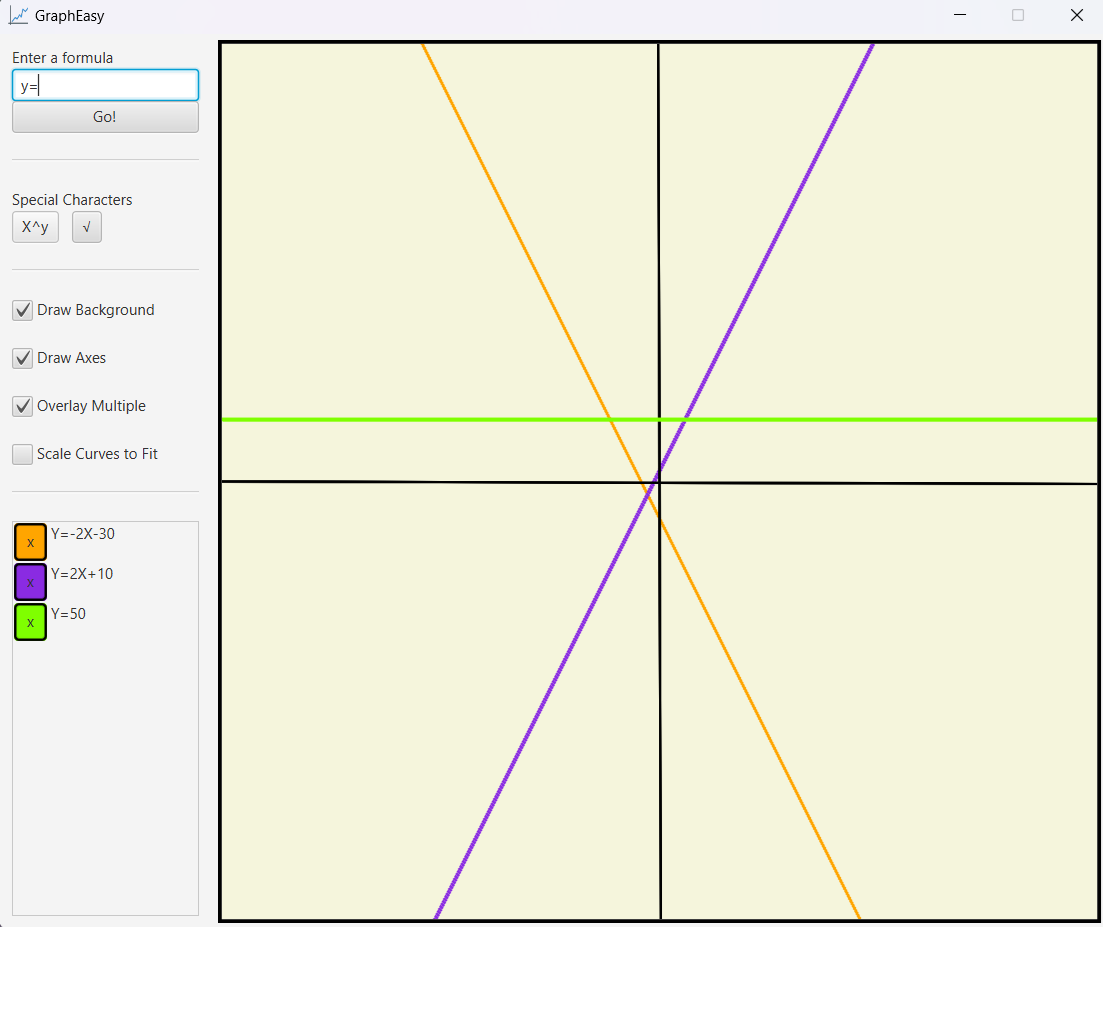
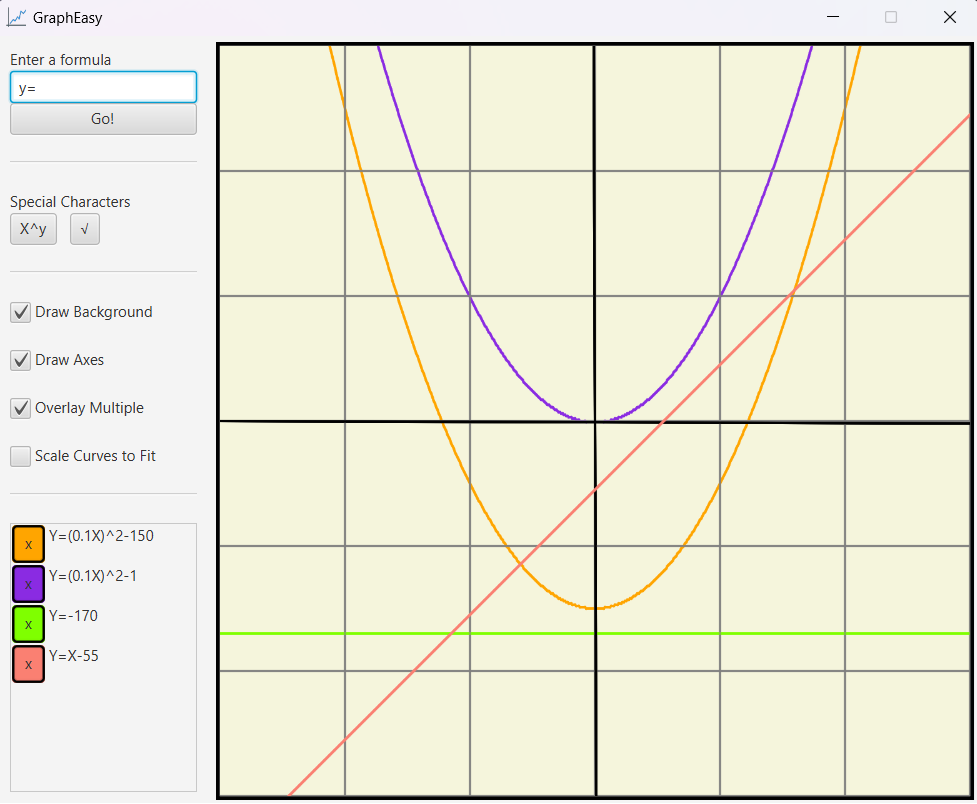
Added background grid. Fixed issue with long lines being segmented. Updated Github image

diff --git a/data-display-demo/src/main/java/mainClasses/MainController.java b/data-display-demo/src/main/java/mainClasses/MainController.java
@@ -35,14 +35,22 @@ public class MainController {
 
 	// TODO Possible next TODOs
 	// y=x^2 doesn't produce a parabola; squared negatives stay negative
-		// y=(x)^2 DOES display as expected, but not y=x^2? Why?
-			// Possible solution: When assessing formula, consider replacing "X" with "(X)"
-			// Then undoing it when the GraphData is created?
-	// drawBackground() should draw a thin grid in the background, with ticks and correct scaling
+	// y=(x)^2 DOES display as expected, but not y=x^2? Why?
+	// Possible solution: When assessing formula, consider replacing "X" with "(X)"
+	// Then undoing it when the GraphData is created?
+	// TODO I have done this ^^^ - check it works as it should
+	// drawBackground() should draw a thin grid in the background, with ticks and
+	// correct scaling
+	// Then make sure it's displaying as it should, with the right coordinates, etc
 	// Why is the line dashed when there is a big gap between points?
-	// Make the TextField a typable dropdown that lets the user select previously added formulas
+	// Make the GraphData remember its colour, so that deleting earlier lines
+	// doesn't change the colour
+	// Make the TextField a typable dropdown that lets the user select previously
+	// added formulas
 	// Give user checkbox to de/select from list. Only display selected
 	// Allow user to import/export data
+	// Update the github image with an extra line such as "y=(x/20)^2" to show that
+	// it does expos.
 	// Unit tests
 
 	ArrayList<GraphData> graphDataPoints = new ArrayList<>();
@@ -77,11 +85,14 @@ public class MainController {
 
 	Color canvasBackGroundColour = Color.BEIGE;
 	Color canvasAxisColour = Color.BLACK;
-	Color[] lineColours = { Color.LIGHTGREEN, Color.ORANGE, Color.BLUEVIOLET, Color.CHARTREUSE,//
-			Color.PINK, Color.SANDYBROWN, Color.RED, Color.AQUA };
+	Color canvasBackgroundColour = new Color(0.5, 0.5, 0.5, 0.5); // Grey
+	Color[] lineColours = { Color.LIGHTGREEN, Color.ORANGE, Color.BLUEVIOLET, Color.CHARTREUSE, //
+			Color.SALMON, Color.SANDYBROWN, Color.RED, Color.AQUA };
 
 	int canvasLineWidth = 2;
-	double topBarOpacity = 0.4;
+	double backgroundLineWidth = 0.5;
+
+	int gridInterval = 100;
 
 	final static String fxmlFileName = "/mainFXML.fxml";
 
@@ -102,9 +113,9 @@ public class MainController {
 		overlayMultipleCheckBox.setSelected(true);
 		drawAxes(1);
 		drawBackgroundGrid(1);
-		
+
 		VBox.setVgrow(listOfLineScrollPane, Priority.ALWAYS);
-		
+
 		formulaEntryTF.setText(formulaBoxStartingText);
 		Platform.runLater(() -> {
 			moveCaretToEndOfFormulaBox();
@@ -176,7 +187,7 @@ public class MainController {
 
 	private void paintBackground() {
 		gc.setFill(canvasBackGroundColour);
-		gc.fillRect(0, 0, canvas.getWidth(), canvas.getHeight()); // Covers the whole area
+		gc.fillRect(0, 0, canvas.getWidth(), canvas.getHeight());
 	}
 
 	private void createLine(String formula) throws ScriptException {
@@ -192,7 +203,8 @@ public class MainController {
 		ArrayList<Double> rawYValues = new ArrayList<Double>();
 		getRawValues(formula, rawYValues);
 
-		GraphData data = new GraphData("Y" + formula.toUpperCase().replace("*X", "X"), "Y" + formula.toUpperCase().replace("*X", "X"), rawYValues);
+		GraphData data = new GraphData("Y" + formula.toUpperCase().replace("*X", "X"),
+				"Y" + formula.toUpperCase().replace("*X", "X"), rawYValues);
 
 		// TODO This is flimsy ATM
 		// Avoiding duplicates as a temporary solution to make sure the UI list
@@ -239,8 +251,12 @@ public class MainController {
 			drawAxes(1);
 		}
 
+		if (graphDataPoints.size() == 0 && getDrawBackground()) {
+			drawBackgroundGrid(1);
+		}
+
 		moveCaretToEndOfFormulaBox();
-		
+
 	}
 
 	private void addLineToUiList(GraphData data) {
@@ -288,8 +304,8 @@ public class MainController {
 						((Pane) grandParent).getChildren().remove(parent);
 					}
 				}
-			redrawLinesOnGraphFromCache();
-			moveCaretToEndOfFormulaBox();
+				redrawLinesOnGraphFromCache();
+				moveCaretToEndOfFormulaBox();
 			}
 		});
 
@@ -306,10 +322,10 @@ public class MainController {
 		double scale = getScalingFactor(rawYValues);
 
 		// Optionally: Draw background
-		if(getDrawBackground()) {
+		if (getDrawBackground()) {
 			drawBackgroundGrid(scale);
 		}
-		
+
 		// Optionally: Draw axes
 		if (getDrawAxes()) {
 			drawAxes(scale);
@@ -321,15 +337,24 @@ public class MainController {
 	}
 
 	private void drawBackgroundGrid(double scale) {
-		// TODO Auto-generated method stub
-		// TODO vvv
-			// TODO Also: add tickmarks and numbers
-		System.out.println("TODO: Draw a thin grid in the background that scales with the scale");
+		gc.setStroke(canvasBackgroundColour);
+
+		int yValue = gridInterval;
+		while (yValue <= canvas.getHeight()) {
+			gc.strokeLine(0, yValue, canvas.getWidth(), yValue);
+			yValue += gridInterval;
+		}
+
+		int xValue = gridInterval;
+		while (xValue <= canvas.getWidth()) {
+			gc.strokeLine(xValue, 0, xValue, canvas.getHeight());
+			xValue += gridInterval;
+		}
 	}
 
 	private double getScalingFactor(ArrayList<Double> rawYValues) {
 		// TODO Consider; this squashes each line individually
-			// Would it be preferable to return a scaling factor for ALL lines/data points?
+		// Would it be preferable to return a scaling factor for ALL lines/data points?
 		if (getScaleCurves()) {
 			double largest = findLargest(rawYValues);
 			return canvas.getHeight() / largest;
@@ -371,7 +396,7 @@ public class MainController {
 	private boolean getDrawAxes() {
 		return drawAxesCheckBox.isSelected();
 	}
-	
+
 	private boolean getDrawBackground() {
 		return drawBackgroundCheckBox.isSelected();
 	}
@@ -399,13 +424,19 @@ public class MainController {
 		for (int counter = 0; counter < yValues.size(); counter++) {
 			double xValue = counter;
 
-			if(Double.isNaN(yValues.get(counter))) {
+			if (Double.isNaN(yValues.get(counter))) {
 				continue;
 			}
-			
-			double yValue = Math.round(canvas.getHeight() / 2 - (yValues.get(counter) * scale));
-			gc.strokeLine(xValue, yValue, xValue + 1, yValue + 1);
+
+			 // try-catch is here as the last point will fail
+			double yStartValue = Math.round(canvas.getHeight() / 2 - (yValues.get(counter) * scale));
+			try {
+				double yEndValue = Math.round(canvas.getHeight() / 2 - (yValues.get(counter + 1) * scale));
+				gc.strokeLine(xValue, yStartValue, xValue + 1, yEndValue);
 //			System.out.println("DRAWN: " + xValue + " " + yValue);
+			} catch (Exception e) {
+				gc.strokeLine(xValue, yStartValue, xValue + 1, yStartValue+1);
+			}
 		}
 	}
 
@@ -435,7 +466,7 @@ public class MainController {
 
 	private void getRawValues(String formula, ArrayList<Double> rawYValues) {
 		for (double xValue = (0 - (canvas.getWidth() / 2)); xValue <= canvas.getWidth() / 2; xValue += 1) {
-			String formulaImpl = formula.replace("x", "" + (int) xValue);
+			String formulaImpl = formula.replace("x", "(" + (int) xValue + ")");
 			Expression expression = new ExpressionBuilder(formulaImpl.split("=")[1]).build();
 
 //			System.out.println("FORMULA: " + formula + " || " + formulaImpl);
@@ -468,11 +499,11 @@ public class MainController {
 	private boolean checkFormulaIsCorrect(String formula) {
 
 		formula = formula.toLowerCase();
-		
-		if(formula.equals(formulaBoxStartingText)) {
+
+		if (formula.equals(formulaBoxStartingText)) {
 			return false;
 		}
-		
+
 		String[] formulaSplit = formula.split("=");
 
 //		if (!formula.contains("x") || !formula.contains("y")) {

diff --git a/data-display-demo/src/main/java/mainClasses/AppClass.java b/data-display-demo/src/main/java/mainClasses/AppClass.java
@@ -14,8 +14,8 @@ public class AppClass extends Application {
 	private final static String appIconFileName = "linechart.png";
 	
 	Logger logger;
-	public static final int minimumStageWidth = 700;
-	public static final int minimumStageHeight = 700;
+	public static final int minimumStageWidth = 600;
+	public static final int minimumStageHeight = 600;
 	
 
 	@Override
